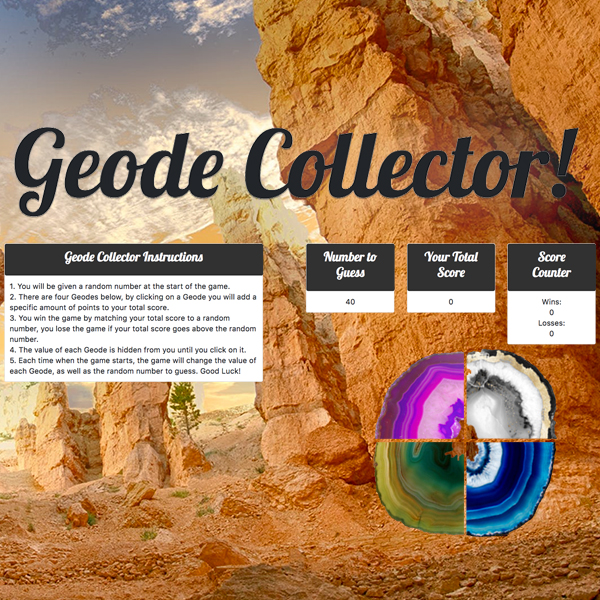
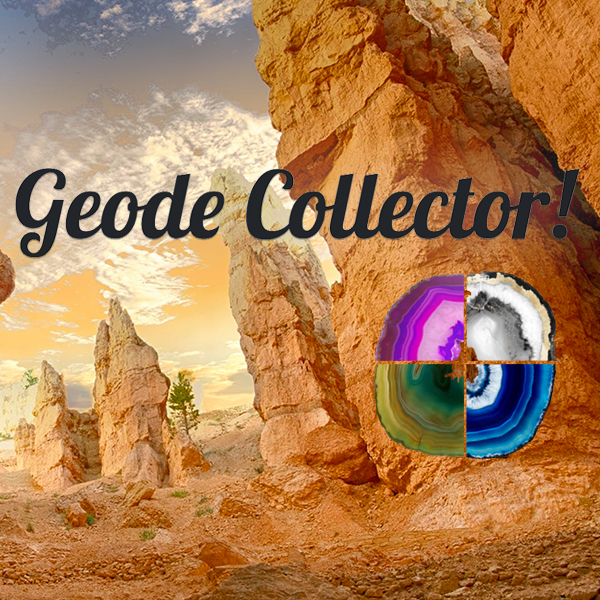
project1

diff --git a/projects/project1.html b/projects/project1.html
@@ -1,24 +1,24 @@
 <div class="portfolio-content">
     <!--Title and Subtitle-->
-    <div class="cbp-l-project-title">Project One</div>
-    <div class="cbp-l-project-subtitle">by lorem ipsum</div>
+    <div class="cbp-l-project-title">Geode Collector</div>
+    <div class="cbp-l-project-subtitle">by Abby Thoresen</div>
     <!--/Title and Subtitle-->
     <!--Slider-->
     <div class="cbp-slider">
         <ul class="cbp-slider-wrap">
             <li class="cbp-slider-item">
-                <a href="contents/images/portfolios/1400x900/01.jpg" class="cbp-lightbox">
-                    <img src="contents/images/portfolios/1400x900/01.jpg" alt=""> 
+                <a href="contents/images/portfolios/1400x900/geode.jpg" class="cbp-lightbox">
+                    <img src="contents/images/portfolios/1400x900/geode.jpg" alt="">
                 </a>
             </li>
             <li class="cbp-slider-item">
-                <a href="contents/images/portfolios/1400x900/02.jpg" class="cbp-lightbox">
-                    <img src="contents/images/portfolios/1400x900/02.jpg" alt=""> 
+                <a href="contents/images/portfolios/1400x900/geodeA.jpg" class="cbp-lightbox">
+                    <img src="contents/images/portfolios/1400x900/geodeA.jpg" alt="">
                 </a>
             </li>
             <li class="cbp-slider-item">
-                <a href="contents/images/portfolios/1400x900/03.jpg" class="cbp-lightbox">
-                    <img src="contents/images/portfolios/1400x900/03.jpg" alt=""> 
+                <a href="contents/images/portfolios/1400x900/geodeB.jpg" class="cbp-lightbox">
+                    <img src="contents/images/portfolios/1400x900/geodeB.jpg" alt="">
                 </a>
             </li>
         </ul>
@@ -29,11 +29,13 @@
         <!--Description-->
         <div class="cbp-l-project-desc">
             <div class="cbp-l-project-desc-title">
-                <span>Project Description</span>
+                <span>Geode Collector</span>
             </div>
-            <div class="cbp-l-project-desc-text">Lorem ipsum dolor sit amet, consectetur adipisicing elit. Accusantium, cumque, earum blanditiis incidunt minus commodi consequatur provident quae. Nihil, alias, vel consequatur ab aliquam aspernatur optio harum facilis excepturi mollitia autem
-                voluptas cum ex veniam numquam quia repudiandae in iure. Assumenda, vel provident molestiae perferendis officia commodi asperiores earum sapiente inventore quam deleniti mollitia consequatur expedita quaerat natus praesentium beatae aut
-                ipsa non ex ullam atque suscipit ut dignissimos magnam!</div>
+            <div class="cbp-l-project-desc-text">A Fun jQuery Guessing Game<br>
+This is a front-end application the uses HTML5, CSS, JavaScript and jQuery. This particular project highlights using jQuery to dynamically update the HTML of the application.<br>
+Other Features The page was built using Bootstrap for responsiveness. This application contains alerts and the logic has timeouts to allow the final scores to render before the alert executes.<br>
+How to Play You will be given a random number at the start of the game. Use the Geodes to match your points to the random number. The value of the Geodes changes for every game and you must figure out their values on your own.<br>
+Match your points to the random number to win. If you go over, you lose!</div>
         </div>
         <!--/Description-->
         <!--/Detail List-->
@@ -43,9 +45,11 @@
             </div>
              <!-- List-->
             <ul class="cbp-l-project-details-list">
-                <li><strong>Client</strong>John Doe</li>
-                <li><strong>Date</strong>22 December 2016</li>
-                <li><strong>Categories</strong>Logo, Graphic</li>
+
+                <li><strong>Date</strong>November 2017</li>
+                <li><strong>Technologies Used</strong>HTML5, Bootstrap, CSS, JavaScript and jQuery</li>
+                <li><strong>Github</strong><a href="https://github.com/akt12345/week-4-game">View Files</a><br></li>
+
             </ul>
              <!--/List-->
             <a href="https://wrapbootstrap.com/?ref=themebang" target="_blank" class="cbp-l-project-details-visit btn red uppercase">visit the site</a>
@@ -88,5 +92,5 @@
     <!--/Container 2-->
     <br>
     <br>
-    <br> 
+    <br>
 </div>

diff --git a/home.html b/home.html
@@ -127,15 +127,15 @@
                                     <div class="cbp-l-caption-alignCenter">
                                         <div class="cbp-l-caption-body">
                                             <div class="btn-group">
-                                                <a href="projects/project1.html" class="cbp-singlePage btn" rel="nofollow" data-cbp-singlePage="projects">more info</a>
-                                                <a href="https://www.youtube.com/watch?v=3wbvpOIIBQA" class="cbp-lightbox btn btn-sm btn-right" data-title="GoPro: HERO3+ Black Edition<br>by GoPro">view video</a>
+                                                <a href="projects/project1.html" class="cbp-singlePage btn btn-sm" rel="nofollow" data-cbp-singlePage="projects">more info</a>
+                                                <a href="contents/images/portfolios/1400x900/geode.jpg" class="cbp-lightbox btn btn-sm btn-right" data-title="Goede Collector: HTML5, Bootstrap, CSS, JavaScript and jQuery<br>by Abby Thoresen">view larger</a>
                                             </div>
                                         </div>
                                     </div>
                                 </div>
                             </div>
-                            <div class="cbp-l-grid-projects-title uppercase text-center uppercase text-center">Project One</div>
-                            <div class="cbp-l-grid-projects-desc uppercase text-center uppercase text-center">Animation / Movie</div>
+                            <div class="cbp-l-grid-projects-title uppercase text-center uppercase text-center">Geode Collector</div>
+                            <div class="cbp-l-grid-projects-desc uppercase text-center uppercase text-center">HTML5 / Bootstrap / CSS / JavaScript / jQuery</div>
                         </div>
                     </div>
                     <!--/portfolio 1-->
